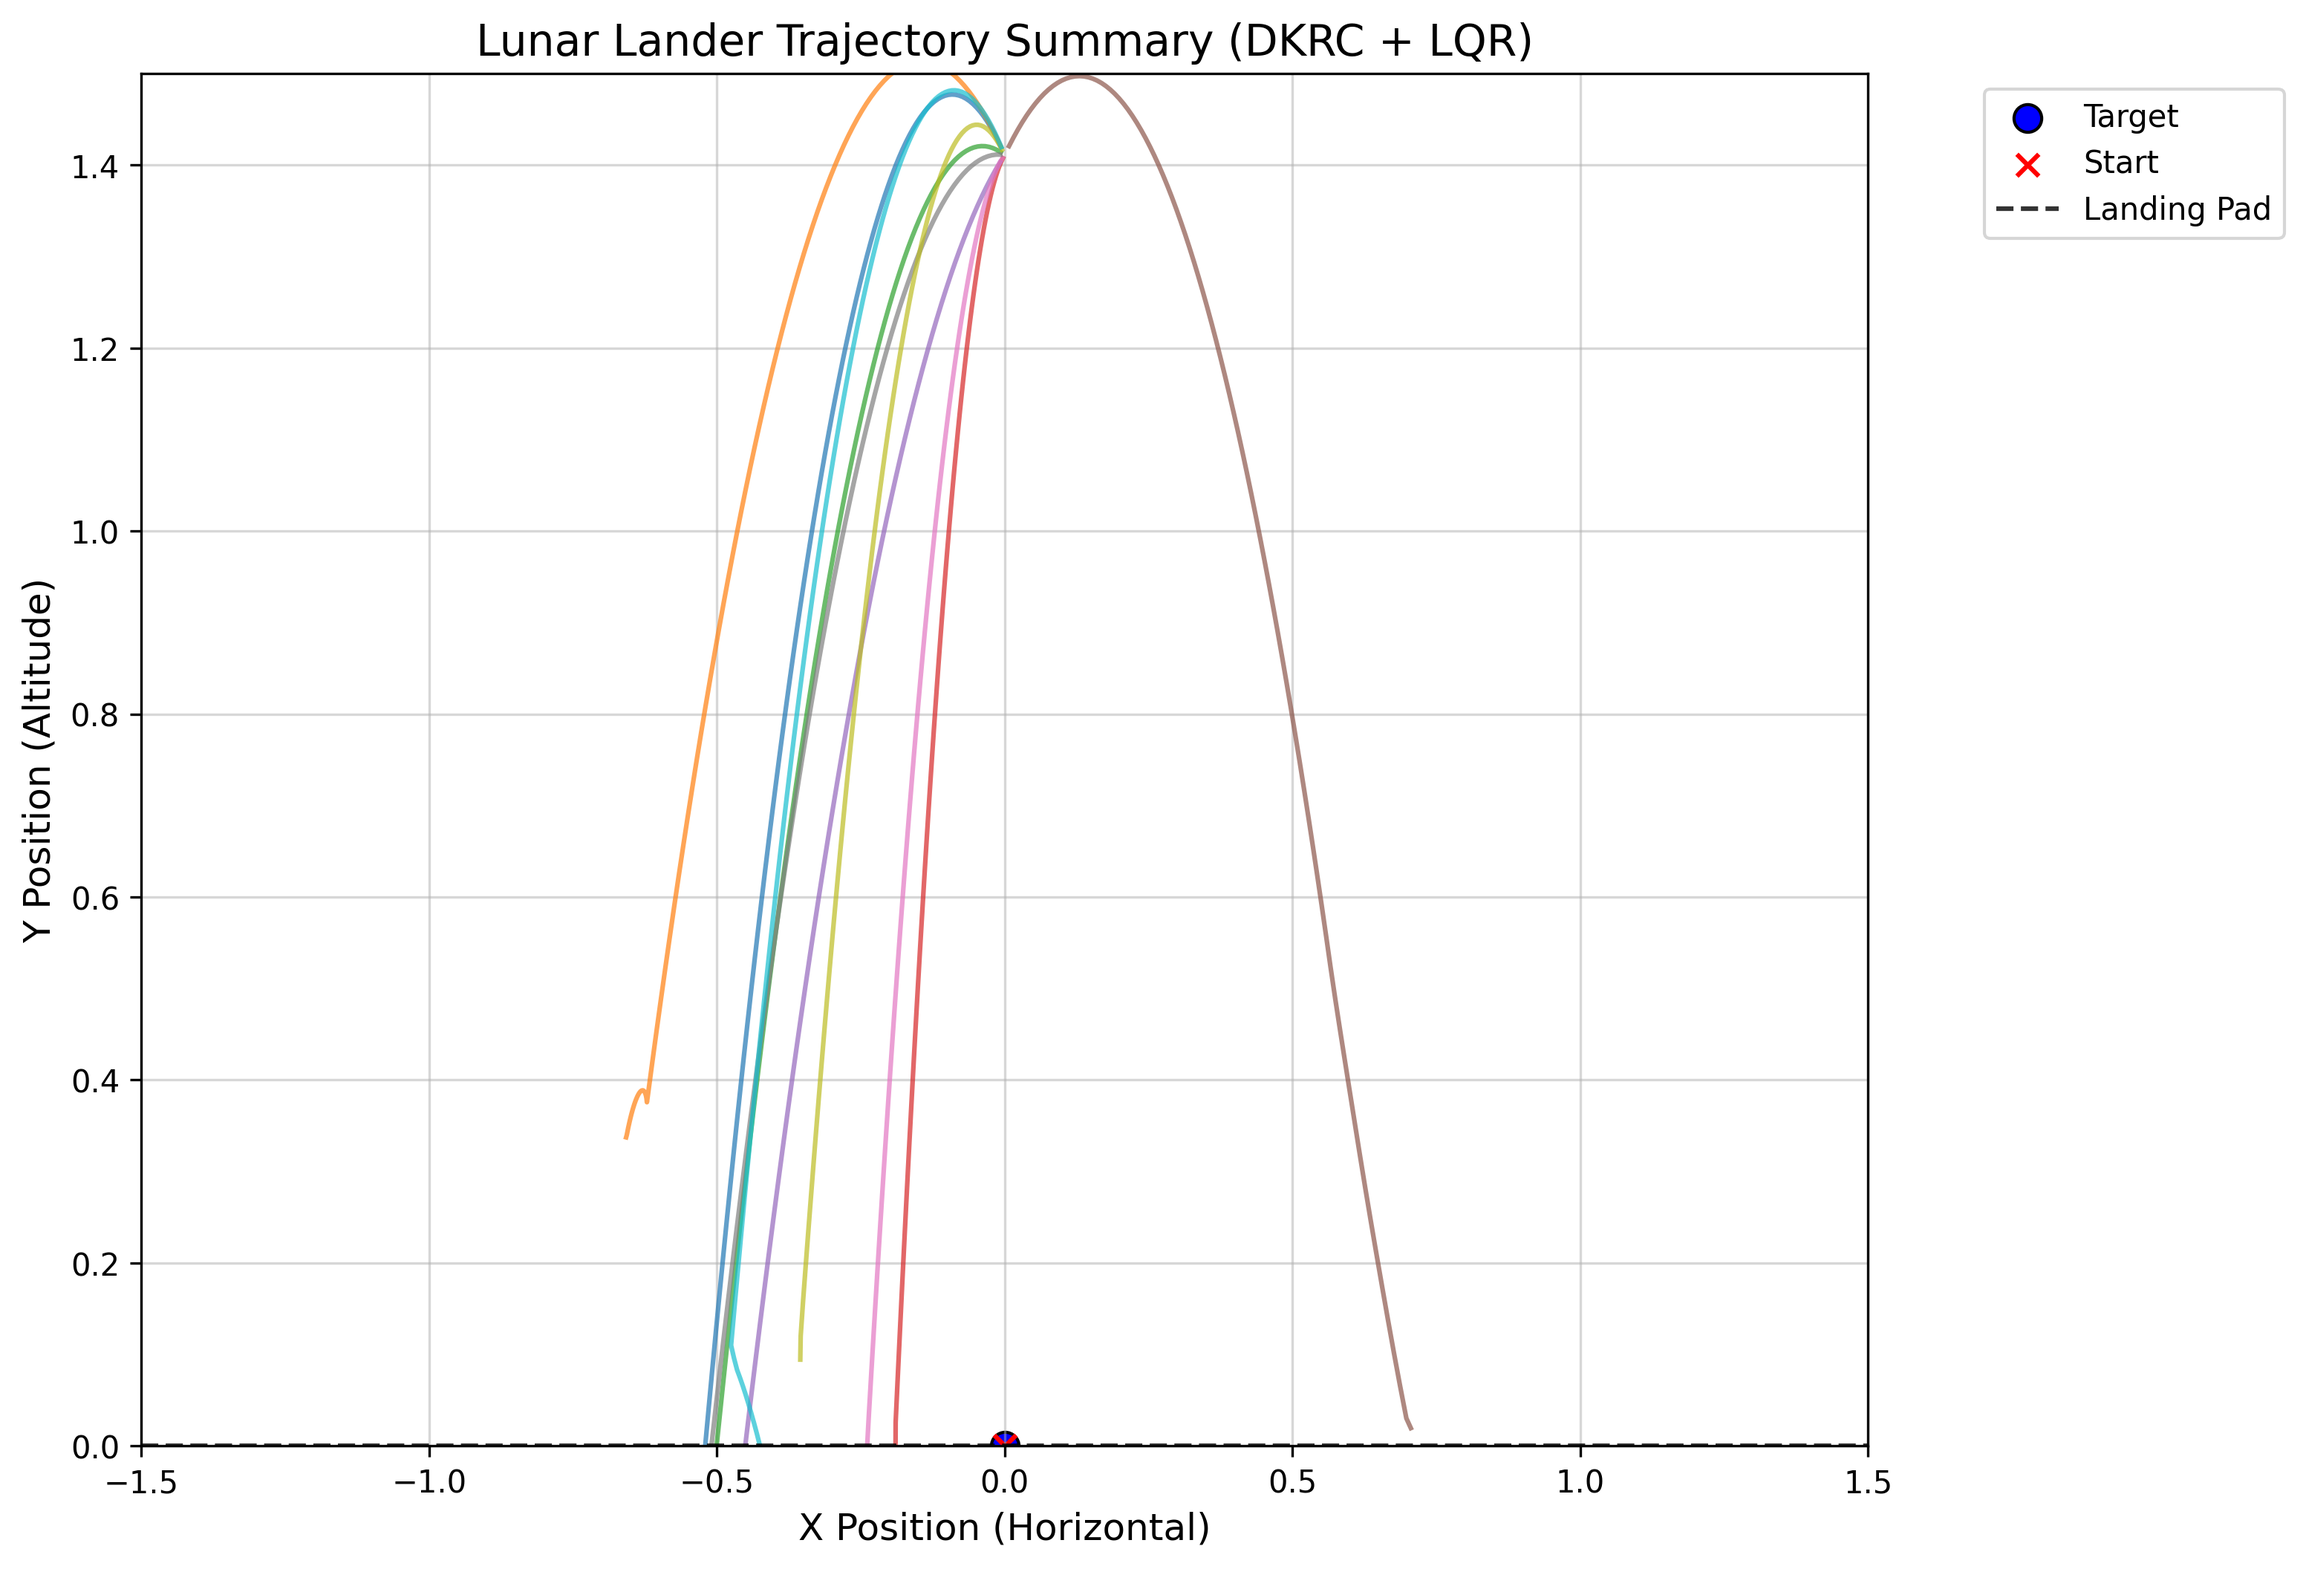
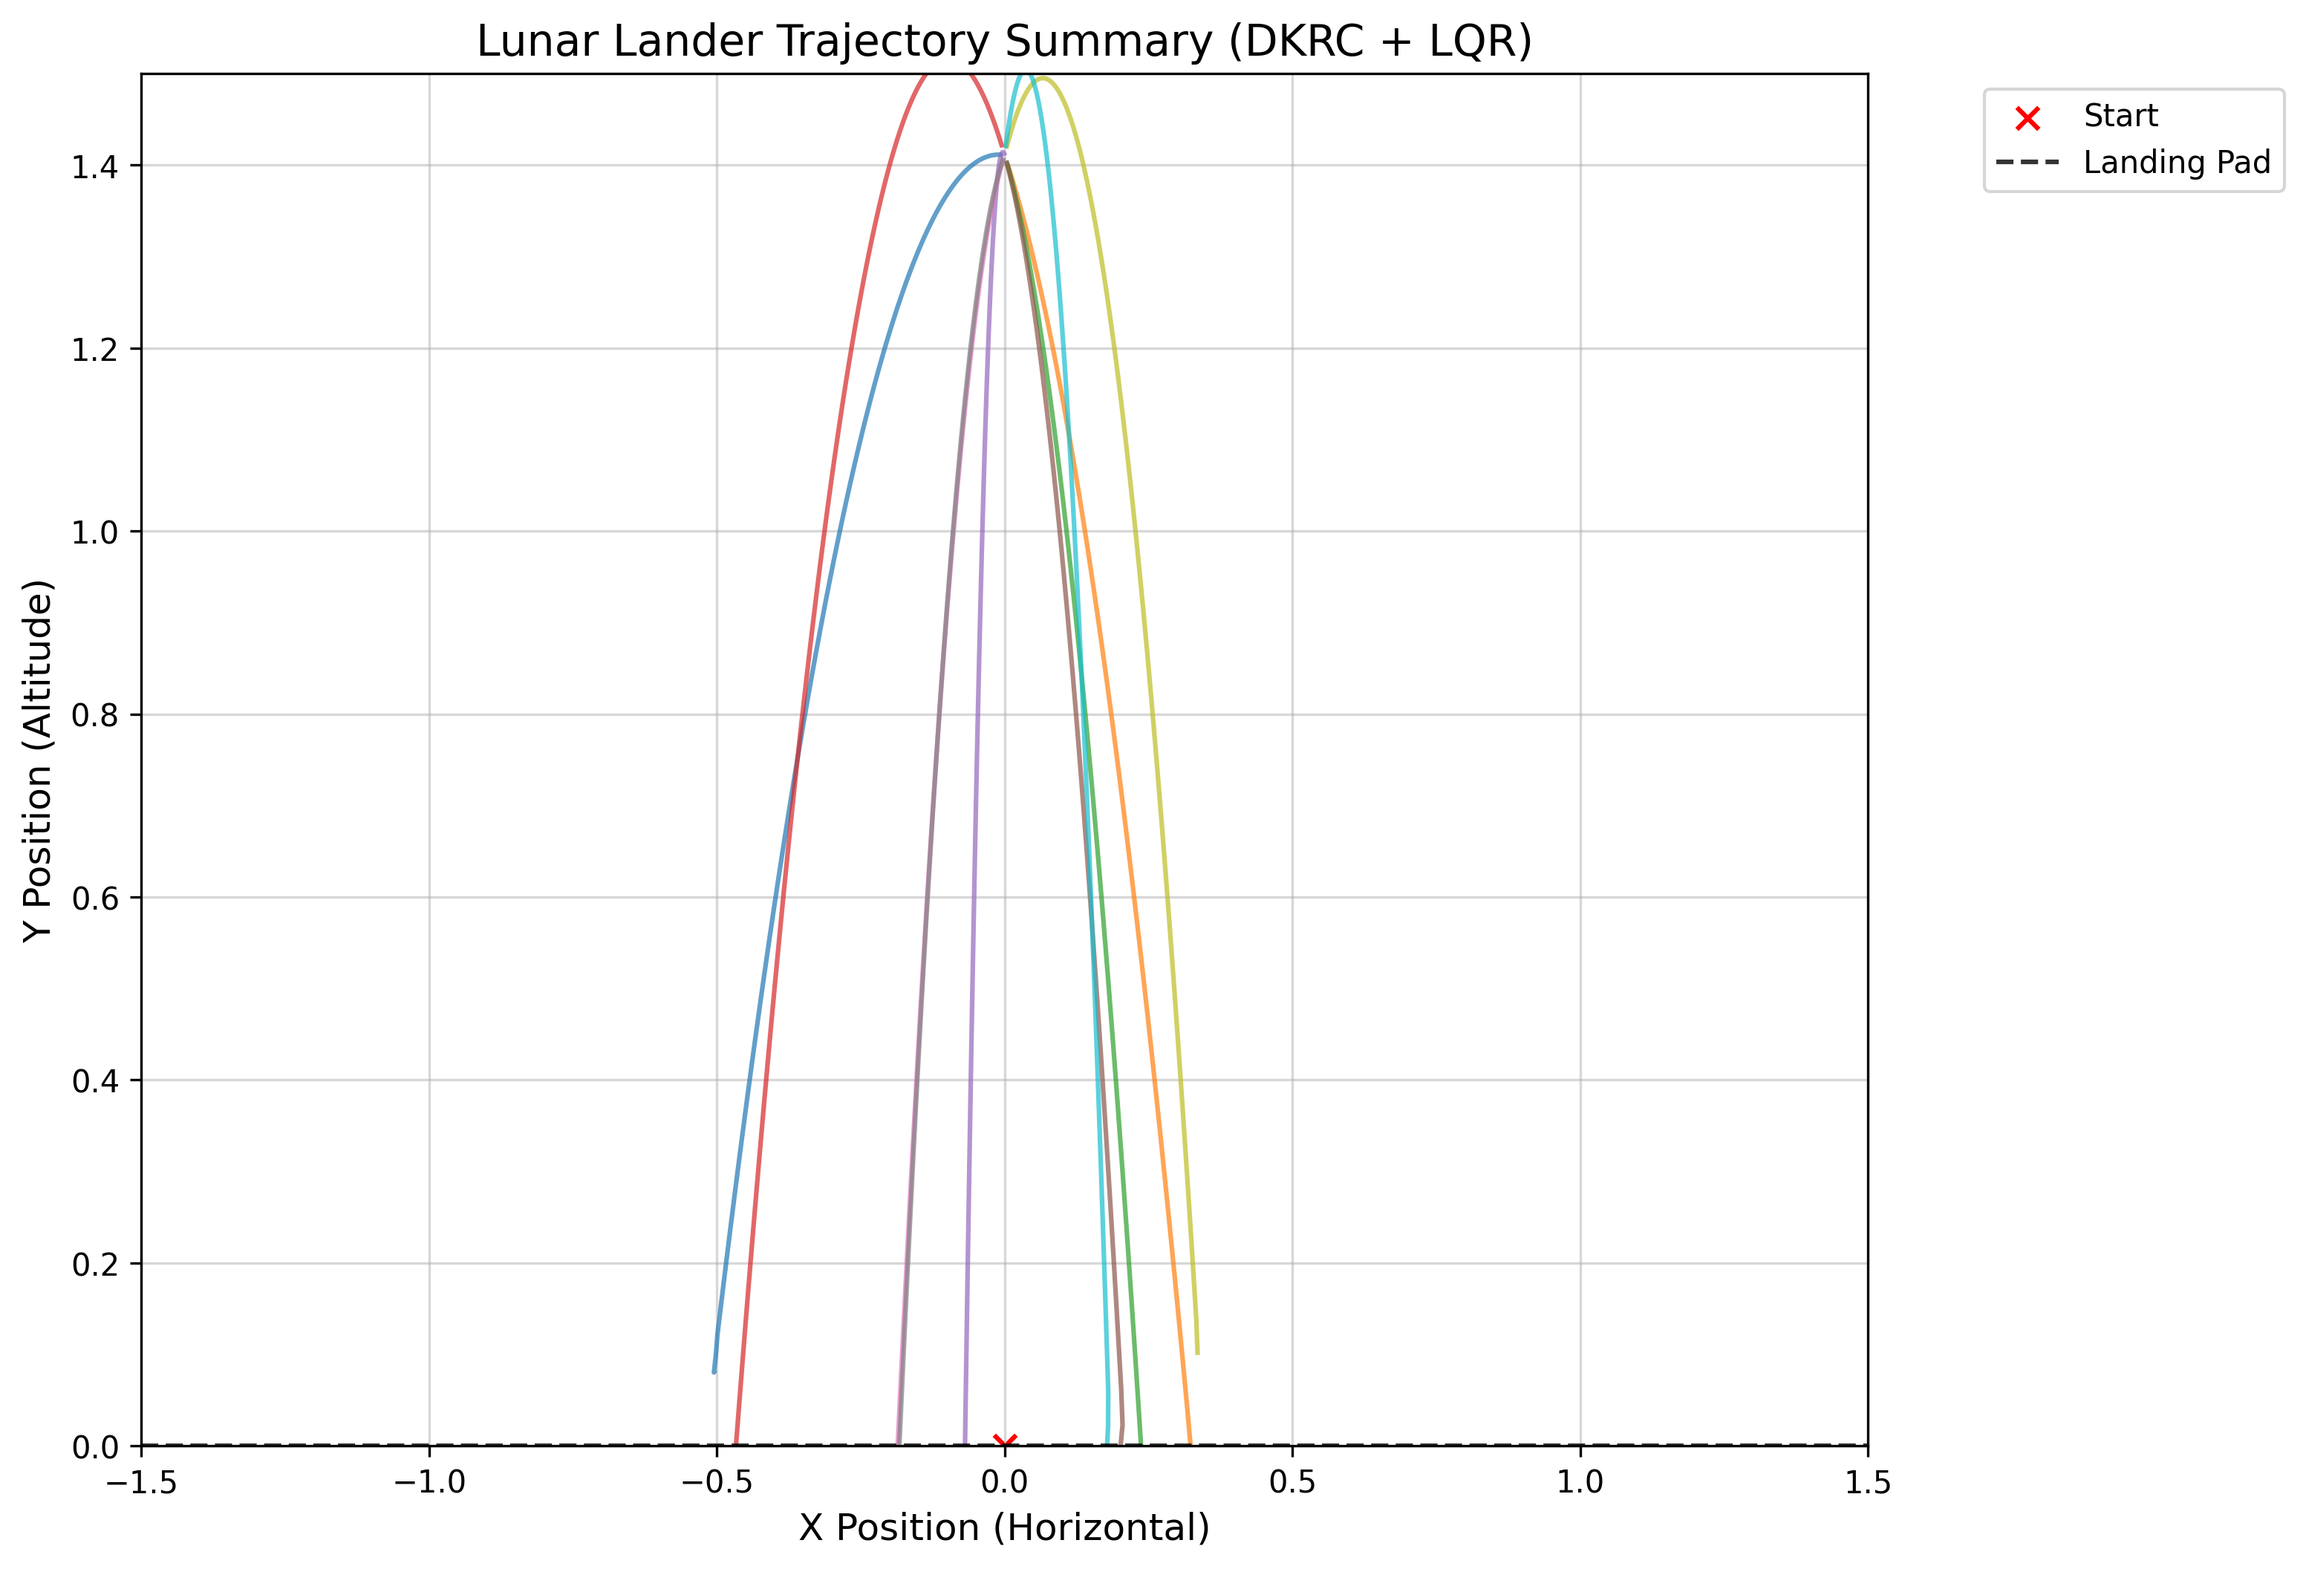
DKRCv2

Changed region(s): [[0.2812, 0.0312, 0.5311, 0.9371], [0.8747, 0.0625, 0.9997, 0.1562]]

diff --git a/models/psi_mlp.py b/models/psi_mlp.py
@@ -151,3 +151,126 @@ class PsiMLP(nn.Module):
         batch_size = x.shape[0]
         # 扩展常数u₀到批量维度：[control_dim] → [1, control_dim] → [batch_size, control_dim]
         return self.u0.unsqueeze(0).expand(batch_size, -1)
+    
+
+class PsiMLP_v2(nn.Module):
+    """
+    改进版Koopman基函数学习网络（增强表达能力）
+    改进点：
+    1. 加入状态注意力机制，自动聚焦关键状态维度
+    2. 采用混合激活函数（tanh + Swish），缓解梯度饱和
+    3. 多尺度特征融合，增强对不同频率动态的捕捉能力
+    """
+    def __init__(
+        self,
+        input_dim: int,
+        output_dim: int,
+        control_dim: int,
+        low: Union[List[float], np.ndarray],
+        high: Union[List[float], np.ndarray],
+        hidden_dims: List[int] = None,
+        activation: nn.Module = None,
+        device: Optional[torch.device] = None
+    ):
+        super().__init__()
+        self.device = device or torch.device("cuda" if torch.cuda.is_available() else "cpu")
+        
+        # 核心参数保持不变
+        self.input_dim = input_dim  # 原状态维度n（如月球着陆器n=6）
+        self.output_dim = output_dim  # 高维空间维度N
+        self.control_dim = control_dim  # 控制输入维度m
+        
+        # 状态归一化参数（解耦环境依赖）
+        self.low = torch.tensor(low, dtype=torch.float32, device=self.device)
+        self.high = torch.tensor(high, dtype=torch.float32, device=self.device)
+        assert self.low.shape[0] == input_dim and self.high.shape[0] == input_dim, \
+            f"low/high维度需与input_dim({input_dim})一致"
+        
+        # 改进1：状态注意力机制（聚焦关键状态维度）
+        self.attention = nn.Sequential(
+            nn.Linear(input_dim, input_dim, device=self.device),  # 学习状态维度权重
+            nn.Sigmoid()  # 输出注意力权重∈[0,1]
+        )
+        
+        # 改进2：多尺度分支结构（拆分低维/高维特征）
+        self.hidden_dims = hidden_dims or [256, 256, 256, 256]
+        # 低维分支（捕捉慢变特征，如位置、高度）
+        self.branch_low = self._build_branch(
+            input_dim=input_dim,
+            hidden_dims=self.hidden_dims,
+            output_dim=output_dim // 4  # 分配1/4维度（如256→64）
+        )
+        # 高维分支（捕捉快变特征，如角速度、速度）
+        self.branch_high = self._build_branch(
+            input_dim=input_dim,
+            hidden_dims=self.hidden_dims,
+            output_dim=output_dim - (output_dim // 4)  # 剩余3/4维度（如256→192）
+        )
+        
+        # 控制输入固定点u₀（保持原设计）
+        self.u0 = nn.Parameter(
+            torch.zeros(control_dim, dtype=torch.float32, device=self.device),
+            requires_grad=True
+        )
+
+    def _build_branch(self, input_dim: int, hidden_dims: List[int], output_dim: int) -> nn.Sequential:
+        """构建多尺度分支网络（改进2：混合激活函数）"""
+        layers = []
+        in_dim = input_dim
+        
+        for i, hidden_dim in enumerate(hidden_dims):
+            layers.append(nn.Linear(in_dim, hidden_dim, device=self.device))
+            # 改进2：前两层用tanh（局部非线性），后两层用Swish（缓解梯度饱和）
+            if i < 2:
+                layers.append(nn.Tanh())
+            else:
+                layers.append(nn.SiLU())  # Swish激活函数
+            in_dim = hidden_dim
+        
+        # 分支输出层
+        layers.append(nn.Linear(in_dim, output_dim, device=self.device))
+        return nn.Sequential(*layers)
+
+    def normalize_x(self, x: torch.Tensor) -> torch.Tensor:
+        """状态归一化（保持原逻辑）"""
+        x = x.to(self.device, dtype=torch.float32)
+        x_clamped = torch.clamp(x, self.low, self.high)
+        x_norm = (x_clamped - self.low) / (self.high - self.low + 1e-8)
+        return x_norm
+
+    def forward(self, x: torch.Tensor) -> torch.Tensor:
+        """
+        前向传播（融合改进1/2/3）：
+        1. 状态注意力加权
+        2. 多尺度分支特征提取
+        3. 特征融合输出
+        """
+        # 状态归一化
+        x_norm = self.normalize_x(x)
+        
+        # 改进1：状态注意力机制（权重逐元素相乘）
+        attention_weights = self.attention(x_norm)  # [batch_size, input_dim]
+        x_attended = x_norm * attention_weights     # 关键维度增强，次要维度抑制
+        
+        # 改进3：多尺度特征融合
+        feat_low = self.branch_low(x_attended)   # 慢变特征（如位置y、角度θ）
+        feat_high = self.branch_high(x_attended) # 快变特征（如角速度θ_dot、速度ẏ）
+        psi_x = torch.cat([feat_low, feat_high], dim=1)  # 融合特征
+        
+        return psi_x
+
+    def compute_z(self, x: torch.Tensor, x_star: torch.Tensor) -> torch.Tensor:
+        """计算高维线性空间状态z（保持原逻辑）"""
+        x_star = x_star.to(self.device, dtype=torch.float32)
+        if x_star.dim() == 1:
+            x_star = x_star.unsqueeze(0)
+        x_star_batch = x_star.expand(x.shape[0], -1)
+        
+        psi_x = self.forward(x)
+        psi_x_star = self.forward(x_star_batch)
+        return psi_x - psi_x_star
+
+    def forward_u0(self, x: torch.Tensor) -> torch.Tensor:
+        """输出控制输入固定点u₀（保持原逻辑）"""
+        batch_size = x.shape[0]
+        return self.u0.unsqueeze(0).expand(batch_size, -1)

diff --git a/controller/lqr_controller.py b/controller/lqr_controller.py
@@ -1,9 +1,6 @@
 import numpy as np
 import torch
-import gym
 import scipy.linalg as la
-from typing import List
-from rdkrc.models import psi_mlp
 
 
 def solve_discrete_lqr(
@@ -39,4 +36,44 @@ def solve_discrete_lqr(
     print(f"LQR增益计算完成：shape={K_lqr.shape}（论文要求[2,256]）")
     return K_lqr
 
+
+def solve_discrete_lqr_v2(
+    A: torch.Tensor,
+    B: torch.Tensor,
+    Q: np.ndarray = None,  # 改为动态生成优化后的Q，保留输入接口
+    R: np.ndarray = np.diag([0.1, 0.1])  # R不变（控制成本，论文IV.D节指定）
+) -> np.ndarray:
+    """
+    适配改进PsiMLP：优化Q矩阵权重分配，匹配多尺度基函数的物理意义
+    核心变化：Q默认值按基函数分支分配权重，而非全1
+    """
+    # 1. 转换A/B为numpy，获取Koopman维度N（仍为256，与改进后PsiMLP输出一致）
+    A_np = A.cpu().detach().numpy()
+    B_np = B.cpu().detach().numpy()
+    N = A_np.shape[0]  # N=256，确保Q维度匹配
+    
+    # 2. 动态生成优化后的Q矩阵（核心改进）
+    if Q is None:
+        # 基函数分支划分（与改进PsiMLP的_branch_low/_branch_high输出维度对齐）
+        low_dim_size = N // 4  # 低维分支维度：256//4=64（慢变关键特征）
+        high_dim_size = N - low_dim_size  # 高维分支维度：256-64=192（快变辅助特征）
+        
+        # 权重分配原则：
+        # - 低维分支（关键特征）：权重=10（匹配论文对原始状态y/θ的高惩罚）
+        # - 高维分支（辅助特征）：权重=1（抑制震荡，避免过度惩罚）
+        Q_diag = np.ones(N, dtype=np.float32)  # 基础权重
+        Q_diag[:low_dim_size] = 10.0  # 低维分支（前64维）权重提升到10
+        
+        Q = np.diag(Q_diag)  # 最终Q形状仍为[256,256]，维度匹配A
+    
+    # 3. 校验维度（避免意外错误）
+    assert A_np.shape == Q.shape, f"A形状{A_np.shape}与Q形状{Q.shape}不匹配，需均为[{N},{N}]"
+    
+    # 4. 原有LQR求解逻辑不变（确保兼容性）
+    P = la.solve_discrete_are(A_np, B_np, Q, R)
+    B_T_P = B_np.T @ P
+    K_lqr = la.inv(B_T_P @ B_np + R) @ B_T_P @ A_np
+    
+    print(f"LQR增益计算完成：shape={K_lqr.shape}（应为[2,256]，适配改进PsiMLP）")
+    return K_lqr
 

diff --git a/experiments/lunar_lander.py b/experiments/lunar_lander.py
@@ -78,7 +78,7 @@ def test_lander_lqr(
                 total_score += reward
                 x_prev = x_next[0:6]
                 step += 1
-
+            print("最终状态:", x_prev)
             # 记录最终位置（确保轨迹完整覆盖“初始→目标”过程，🔶1-87）
             trajectory.append((x_prev[0], x_prev[1]))
             all_trajectories.append(trajectory)  # 收集当前episode轨迹
@@ -223,9 +223,9 @@ def train_psi_lander(
             
             total_epoch_loss += total_loss.item() * batch_size  # 累积 epoch 损失
         # 每过20个epoch降低一次学习率
-        if (epoch + 1) % 20 == 0:
+        if (epoch + 1) % 50 == 0:
             for param_group in optimizer.param_groups:
-                param_group['lr'] *= 0.1
+                param_group['lr'] *= 0.5
         # 打印epoch信息（平均损失，便于监控收敛）
         avg_epoch_loss = total_epoch_loss / len(dataset)
         avg_loss_list.append(avg_epoch_loss)
@@ -278,7 +278,7 @@ if __name__ == "__main__":
         u_prev=u_prev,
         x_next=x_next,
         epochs=50,  # 足够轮次确保收敛
-        batch_size=128,
+        batch_size=256,
         lr=1e-5
     )
 

diff --git a/utils/matrix_utils.py b/utils/matrix_utils.py
@@ -82,7 +82,7 @@ def update_A_B(
     B_normalized = B_avg / global_norm
 
     # 6. 平滑更新（Section II.28训练稳定性要求：避免A、B剧烈波动）
-    alpha = 0.1  # 当前计算值权重（文档未指定，取小值确保平滑）
+    alpha = 0.5  # 当前计算值权重（文档未指定，取小值确保平滑）
     A = (1 - alpha) * A_init.detach() + alpha * A_normalized
     B = (1 - alpha) * B_init.detach() + alpha * B_normalized
 

diff --git a/trainer/loss_functions.py b/trainer/loss_functions.py
@@ -58,9 +58,9 @@ def compute_L1_loss(
 def compute_L2_loss(
     A: torch.Tensor,
     B: torch.Tensor,
-    lambda_rank: float = 0.8,
-    lambda_A: float = 0.1,
-    lambda_B: float = 0.1
+    lambda_rank: float = 0.1,
+    lambda_A: float = 0.45,
+    lambda_B: float = 0.45
 ) -> torch.Tensor:
     """
     计算L2损失（文档Algorithm 1步骤3）：
